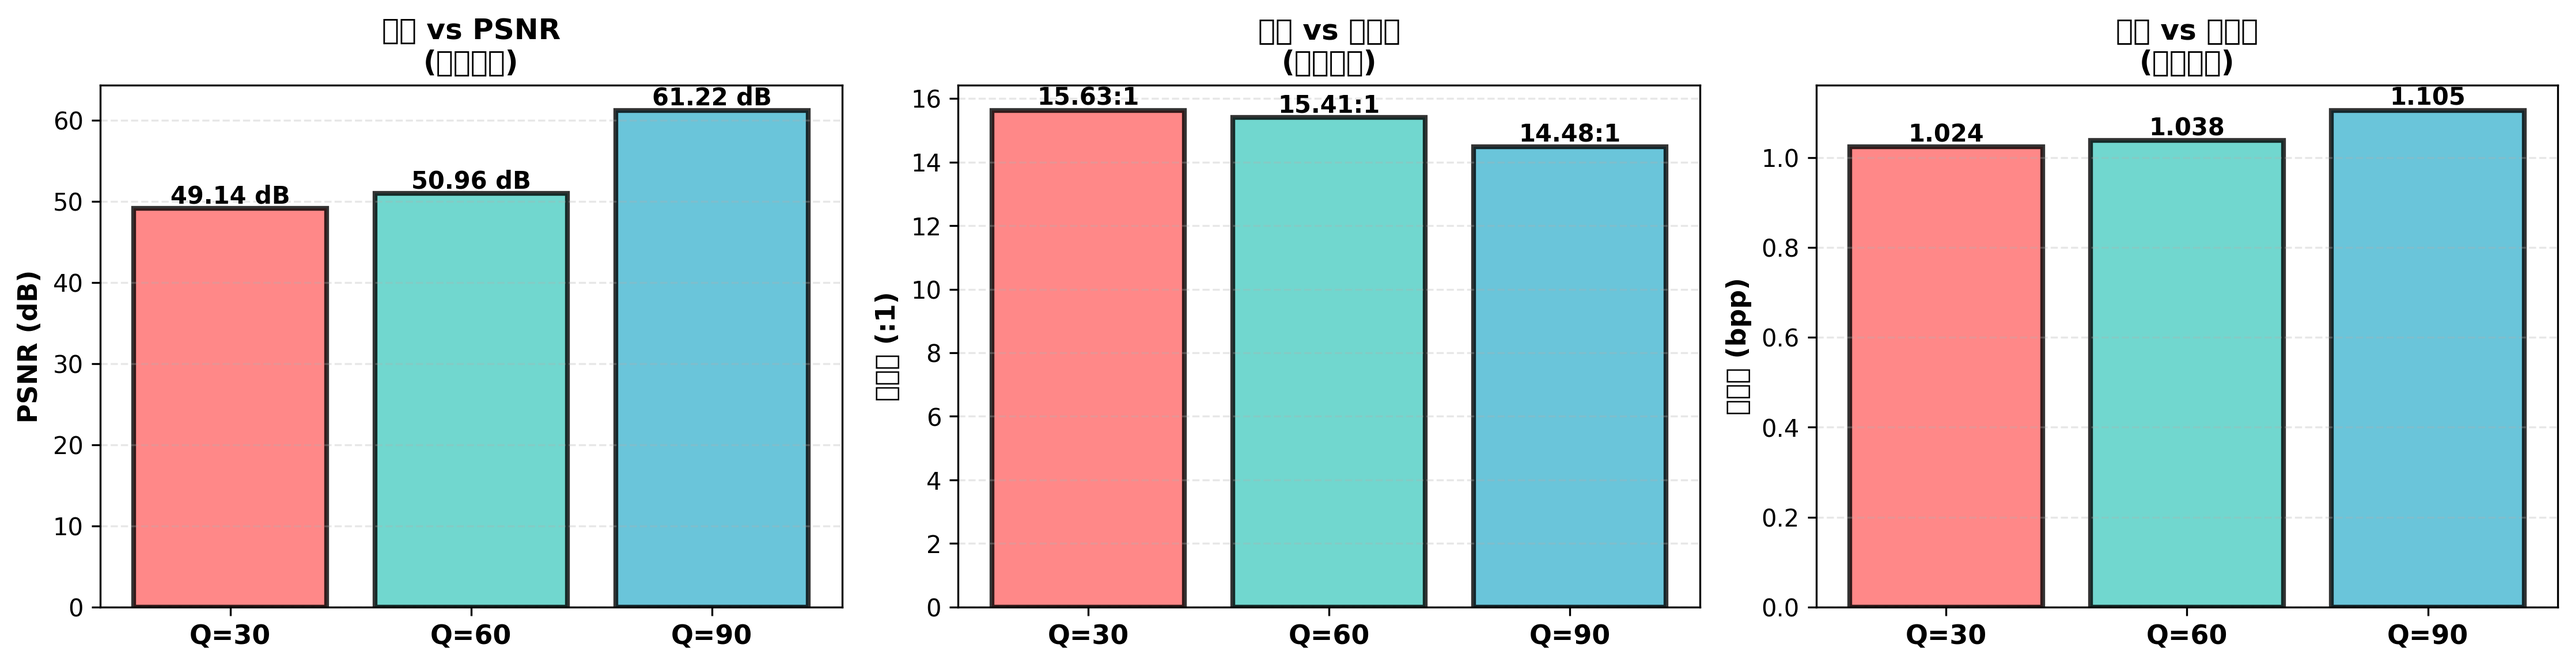
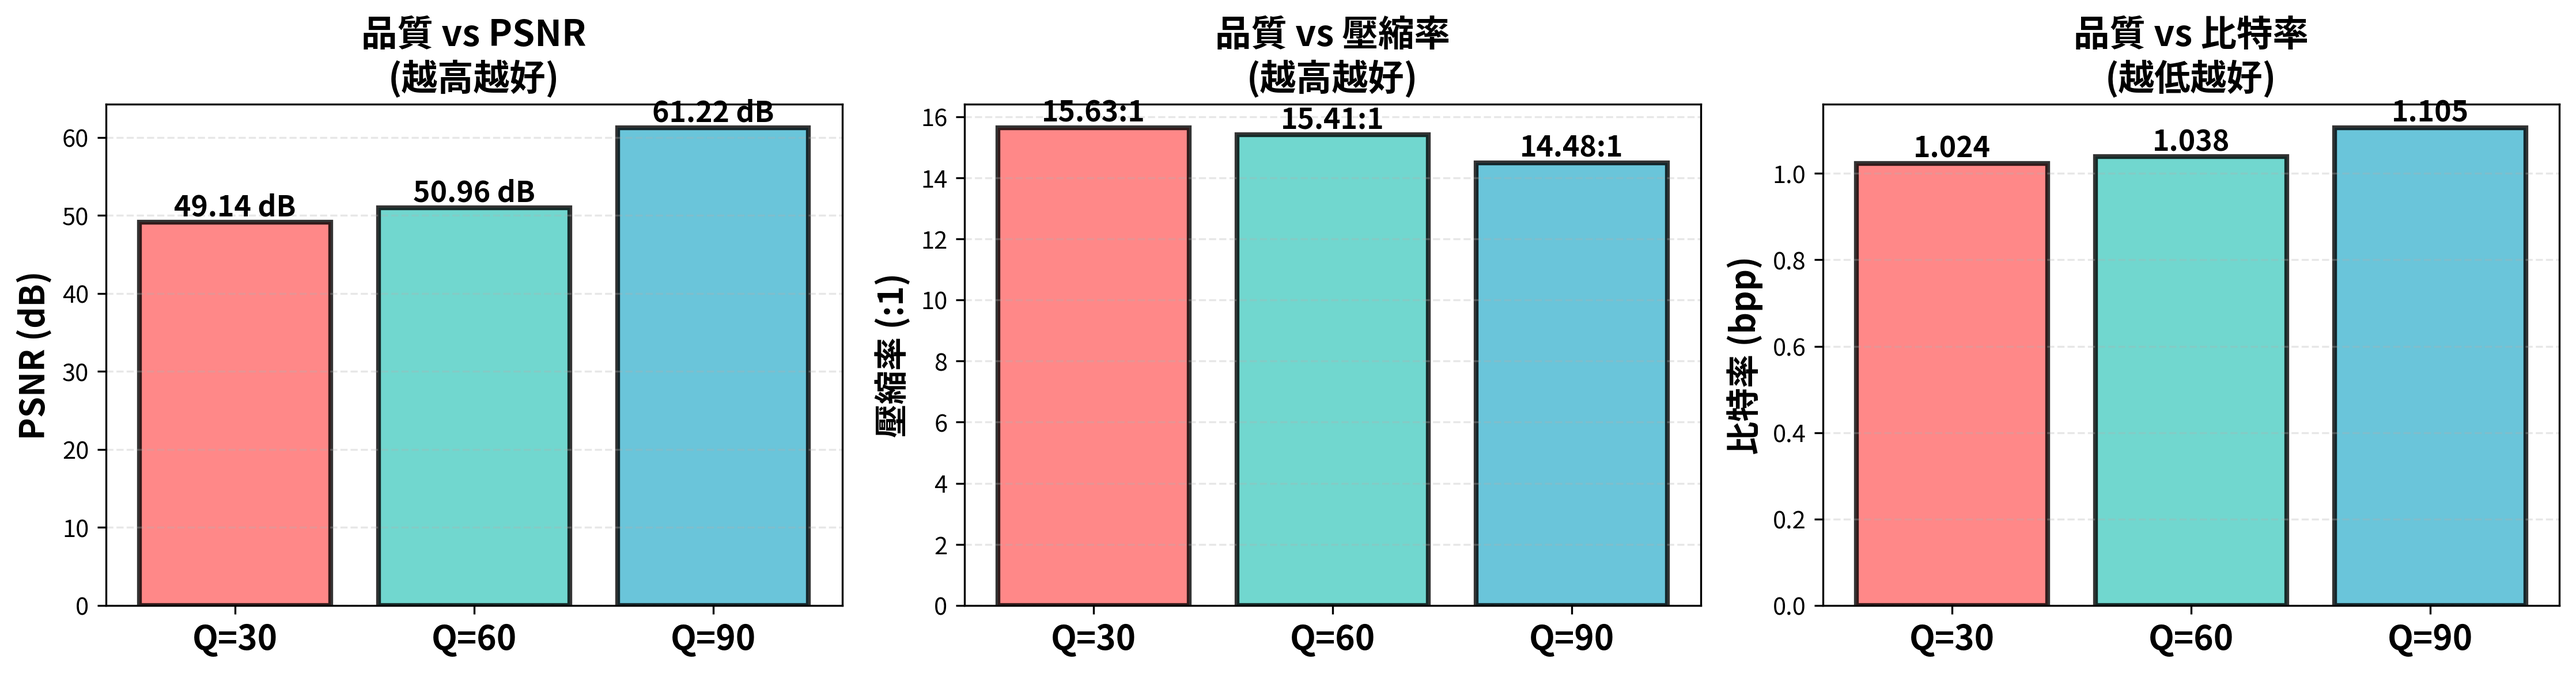
Add SSIM/edge metrics and qualitative figure\n\n- Extra credit: SSIM + edge-preservation metrics in evaluation\n- Update visualizations with CJK-safe fonts and larger labels\n- Add qualitative I150 Q60 figure and refreshed results JSON/plots

diff --git a/tools/generate_visualizations.py b/tools/generate_visualizations.py
@@ -8,8 +8,12 @@ import numpy as np
 import matplotlib.pyplot as plt
 from pathlib import Path
 
-# 設定中文字體
-plt.rcParams['font.sans-serif'] = ['SimHei', 'DejaVu Sans']
+# 設定中文字體（優先使用 Noto CJK，缺字時再回退）
+plt.rcParams['font.family'] = 'sans-serif'
+plt.rcParams['font.sans-serif'] = [
+    'Noto Sans CJK TC', 'Noto Sans CJK SC', 'Noto Sans CJK JP',
+    'Noto Sans', 'DejaVu Sans'
+]
 plt.rcParams['axes.unicode_minus'] = False
 
 # 讀取結果
@@ -47,42 +51,42 @@ psnr_list = [psnr_values[q] for q in qualities]
 colors = ['#FF6B6B', '#4ECDC4', '#45B7D1']
 bars1 = ax.bar(range(len(qualities)), psnr_list, color=colors, alpha=0.8, edgecolor='black', linewidth=2)
 ax.set_xticks(range(len(qualities)))
-ax.set_xticklabels([f'Q={q}' for q in qualities], fontsize=11, fontweight='bold')
-ax.set_ylabel('PSNR (dB)', fontsize=11, fontweight='bold')
-ax.set_title('品質 vs PSNR\n(越高越好)', fontsize=12, fontweight='bold')
+ax.set_xticklabels([f'Q={q}' for q in qualities], fontsize=14, fontweight='bold')
+ax.set_ylabel('PSNR (dB)', fontsize=14, fontweight='bold')
+ax.set_title('品質 vs PSNR\n(越高越好)', fontsize=15, fontweight='bold')
 ax.grid(axis='y', alpha=0.3, linestyle='--')
 for i, (bar, val) in enumerate(zip(bars1, psnr_list)):
     height = bar.get_height()
     ax.text(bar.get_x() + bar.get_width()/2., height,
-            f'{val:.2f} dB', ha='center', va='bottom', fontsize=10, fontweight='bold')
+            f'{val:.2f} dB', ha='center', va='bottom', fontsize=12, fontweight='bold')
 
 # 2. Compression Ratio vs Quality
 ax = axes[1]
 comp_list = [compression_values[q] for q in qualities]
 bars2 = ax.bar(range(len(qualities)), comp_list, color=colors, alpha=0.8, edgecolor='black', linewidth=2)
 ax.set_xticks(range(len(qualities)))
-ax.set_xticklabels([f'Q={q}' for q in qualities], fontsize=11, fontweight='bold')
-ax.set_ylabel('壓縮率 (:1)', fontsize=11, fontweight='bold')
-ax.set_title('品質 vs 壓縮率\n(越高越好)', fontsize=12, fontweight='bold')
+ax.set_xticklabels([f'Q={q}' for q in qualities], fontsize=14, fontweight='bold')
+ax.set_ylabel('壓縮率 (:1)', fontsize=14, fontweight='bold')
+ax.set_title('品質 vs 壓縮率\n(越高越好)', fontsize=15, fontweight='bold')
 ax.grid(axis='y', alpha=0.3, linestyle='--')
 for i, (bar, val) in enumerate(zip(bars2, comp_list)):
     height = bar.get_height()
     ax.text(bar.get_x() + bar.get_width()/2., height,
-            f'{val:.2f}:1', ha='center', va='bottom', fontsize=10, fontweight='bold')
+            f'{val:.2f}:1', ha='center', va='bottom', fontsize=12, fontweight='bold')
 
 # 3. Bits per Pixel vs Quality
 ax = axes[2]
 bpp_list = [bpp_values[q] for q in qualities]
 bars3 = ax.bar(range(len(qualities)), bpp_list, color=colors, alpha=0.8, edgecolor='black', linewidth=2)
 ax.set_xticks(range(len(qualities)))
-ax.set_xticklabels([f'Q={q}' for q in qualities], fontsize=11, fontweight='bold')
-ax.set_ylabel('比特率 (bpp)', fontsize=11, fontweight='bold')
-ax.set_title('品質 vs 比特率\n(越低越好)', fontsize=12, fontweight='bold')
+ax.set_xticklabels([f'Q={q}' for q in qualities], fontsize=14, fontweight='bold')
+ax.set_ylabel('比特率 (bpp)', fontsize=14, fontweight='bold')
+ax.set_title('品質 vs 比特率\n(越低越好)', fontsize=15, fontweight='bold')
 ax.grid(axis='y', alpha=0.3, linestyle='--')
 for i, (bar, val) in enumerate(zip(bars3, bpp_list)):
     height = bar.get_height()
     ax.text(bar.get_x() + bar.get_width()/2., height,
-            f'{val:.3f}', ha='center', va='bottom', fontsize=10, fontweight='bold')
+            f'{val:.3f}', ha='center', va='bottom', fontsize=12, fontweight='bold')
 
 plt.tight_layout()
 plt.savefig('/workspace/MMIP_hw2/results_real/performance_comparison.png', dpi=300, bbox_inches='tight')
@@ -102,12 +106,12 @@ ax.plot(compression_list, psnr_list, 'o-', linewidth=3, markersize=12,
 for comp, psnr, q in zip(compression_list, psnr_list, qualities):
     ax.annotate(f'Q={q}\n{psnr:.2f}dB\n{comp:.2f}:1', 
                 xy=(comp, psnr), xytext=(0, 15), textcoords='offset points',
-                ha='center', fontsize=10, fontweight='bold',
+                ha='center', fontsize=12, fontweight='bold',
                 bbox=dict(boxstyle='round,pad=0.5', facecolor='yellow', alpha=0.3))
 
-ax.set_xlabel('壓縮率 (Original / Compressed) (:1)', fontsize=12, fontweight='bold')
-ax.set_ylabel('PSNR (dB)', fontsize=12, fontweight='bold')
-ax.set_title('Rate-Distortion 曲線\n(Medimodel Human_Skull_2 CT)', fontsize=14, fontweight='bold')
+ax.set_xlabel('壓縮率 (Original / Compressed) (:1)', fontsize=14, fontweight='bold')
+ax.set_ylabel('PSNR (dB)', fontsize=14, fontweight='bold')
+ax.set_title('Rate-Distortion 曲線\n(Medimodel Human_Skull_2 CT)', fontsize=16, fontweight='bold')
 ax.grid(True, alpha=0.3, linestyle='--')
 ax.set_xlim(14, 16)
 ax.set_ylim(48, 62)
@@ -133,23 +137,23 @@ for idx, (result, ax) in enumerate(zip(data['results'], axes[:5])):
                   alpha=0.8, edgecolor='black', linewidth=2)
     
     ax.set_xticks(range(len(qualities_list)))
-    ax.set_xticklabels([f'Q={q}' for q in qualities_list], fontweight='bold')
-    ax.set_ylabel('PSNR (dB)', fontweight='bold')
+    ax.set_xticklabels([f'Q={q}' for q in qualities_list], fontweight='bold', fontsize=11)
+    ax.set_ylabel('PSNR (dB)', fontweight='bold', fontsize=11)
     ax.set_title(f'{slice_name} - 值範圍 {result["value_range"][0]:.0f}~{result["value_range"][1]:.0f}', 
-                 fontweight='bold')
+                 fontweight='bold', fontsize=12)
     ax.set_ylim(40, 70)
     ax.grid(axis='y', alpha=0.3, linestyle='--')
     
     for bar, val in zip(bars, psnr_list):
         height = bar.get_height()
         ax.text(bar.get_x() + bar.get_width()/2., height,
-                f'{val:.1f}', ha='center', va='bottom', fontsize=9, fontweight='bold')
+                f'{val:.1f}', ha='center', va='bottom', fontsize=11, fontweight='bold')
 
 # 移除多餘的子圖
 axes[5].remove()
 
 plt.suptitle('各切片 PSNR 性能 (Medimodel Human_Skull_2 CT)', 
-             fontsize=14, fontweight='bold', y=1.00)
+             fontsize=16, fontweight='bold', y=1.00)
 plt.tight_layout()
 plt.savefig('/workspace/MMIP_hw2/results_real/slice_details.png', dpi=300, bbox_inches='tight')
 print("✓ 已儲存: slice_details.png")

diff --git a/tools/evaluate_real_data.py b/tools/evaluate_real_data.py
@@ -11,6 +11,8 @@ import numpy as np
 import SimpleITK as sitk
 import matplotlib.pyplot as plt
 from pathlib import Path
+from skimage.metrics import structural_similarity as ssim
+from scipy.ndimage import sobel
 
 # Add src to path
 sys.path.insert(0, os.path.join(os.path.dirname(__file__), '..', 'src'))
@@ -53,31 +55,26 @@ def encode_image_direct(image, quality=50):
     height, width = image.shape
     block_size = 8
     bit_depth = 16
-    
+
     # Pad image
     pad_h = (block_size - height % block_size) % block_size
     pad_w = (block_size - width % block_size) % block_size
     padded = np.pad(image, ((0, pad_h), (0, pad_w)), mode='edge')
-    
+
     # Create quantization matrix
     quant_matrix = create_quantization_matrix(quality, block_size, bit_depth)
-    
-    # Process blocks
+
+    # Process blocks: DCT -> quantize -> zigzag
     all_coeffs = []
     for i in range(0, padded.shape[0], block_size):
         for j in range(0, padded.shape[1], block_size):
             block = padded[i:i+block_size, j:j+block_size]
-            
-            # DCT
+
             dct_block = dct2d(block)
-            
-            # Quantize
             quant_block = quantize(dct_block, quant_matrix)
-            
-            # Zigzag
             coeffs = zigzag_flatten(quant_block)
             all_coeffs.extend(coeffs)
-    
+
     # Huffman encode
     from collections import Counter
     symbols_freq = Counter(all_coeffs)
@@ -85,22 +82,22 @@ def encode_image_direct(image, quality=50):
     huffman_codes = generate_huffman_codes(huffman_tree)
     encoded_bits = encode_huffman(all_coeffs, huffman_codes)
     num_bits = len(encoded_bits)
-    
+
     # Serialize Huffman table
     huffman_table = serialize_huffman_table(huffman_codes)
-    
+
     # Convert bitstring to bytes
     encoded_bytes = bytearray()
     for i in range(0, len(encoded_bits), 8):
         byte_str = encoded_bits[i:i+8].ljust(8, '0')
         encoded_bytes.append(int(byte_str, 2))
-    
+
     # Pack bitstream
     bitstream = pack_bitstream(
         width, height, bit_depth, block_size, quality,
         quant_matrix, huffman_table, bytes(encoded_bytes), num_bits
     )
-    
+
     return bitstream
 
 def decode_image_direct(bitstream):
@@ -178,11 +175,27 @@ def decode_image_direct(bitstream):
     return reconstructed
 
 def calculate_metrics(original, reconstructed):
-    """Calculate RMSE and PSNR"""
+    """Calculate RMSE, PSNR, SSIM, and edge-preservation RMSE/PSNR"""
     rmse = np.sqrt(np.mean((original - reconstructed) ** 2))
     max_val = 65535.0  # 16-bit
     psnr = 20 * np.log10(max_val / rmse) if rmse > 0 else 100.0
-    return rmse, psnr
+
+    # SSIM expects data range and float64
+    ssim_val = ssim(original, reconstructed, data_range=max_val)
+
+    # Edge preservation: Sobel magnitude
+    def sobel_mag(x):
+        gx = sobel(x, axis=0)
+        gy = sobel(x, axis=1)
+        return np.hypot(gx, gy)
+
+    orig_edge = sobel_mag(original)
+    recon_edge = sobel_mag(reconstructed)
+    edge_rmse = np.sqrt(np.mean((orig_edge - recon_edge) ** 2))
+    edge_max = np.max(orig_edge) if np.max(orig_edge) > 0 else 1.0
+    edge_psnr = 20 * np.log10(edge_max / edge_rmse) if edge_rmse > 0 else 100.0
+
+    return rmse, psnr, ssim_val, edge_rmse, edge_psnr
 
 def evaluate_real_medimodel():
     """
@@ -241,19 +254,22 @@ def evaluate_real_medimodel():
             reconstructed = decode_image_direct(bitstream)
             
             # Calculate metrics
-            rmse, psnr = calculate_metrics(image, reconstructed)
+            rmse, psnr, ssim_val, edge_rmse, edge_psnr = calculate_metrics(image, reconstructed)
             
             # Calculate compression metrics
             original_size = image.size * 2  # 16-bit = 2 bytes per pixel
             bpp = (compressed_size * 8) / image.size
             ratio = original_size / compressed_size
             
-            slice_result['qualities'][quality] = {
+            slice_result['qualities'][str(quality)] = {
                 'compressed_bytes': int(compressed_size),
                 'bits_per_pixel': float(bpp),
                 'compression_ratio': float(ratio),
                 'rmse': float(rmse),
-                'psnr_db': float(psnr)
+                'psnr_db': float(psnr),
+                'ssim': float(ssim_val),
+                'edge_rmse': float(edge_rmse),
+                'edge_psnr_db': float(edge_psnr)
             }
             
             print(f"    Q={quality}: {compressed_size:,} bytes, {bpp:.3f} bpp, {ratio:.2f}:1, PSNR={psnr:.2f} dB")
@@ -273,16 +289,18 @@ def evaluate_real_medimodel():
     print("\n" + "="*80)
     print("SUMMARY: Average Performance Across All Slices")
     print("="*80)
-    
+
     for quality in quality_levels:
-        metrics = [r['qualities'][quality] for r in results['results']]
+        metrics = [r['qualities'][str(quality)] for r in results['results']]
         avg_bpp = np.mean([m['bits_per_pixel'] for m in metrics])
         avg_ratio = np.mean([m['compression_ratio'] for m in metrics])
         avg_psnr = np.mean([m['psnr_db'] for m in metrics])
+        avg_ssim = np.mean([m['ssim'] for m in metrics])
+        avg_edge_psnr = np.mean([m['edge_psnr_db'] for m in metrics])
         avg_size = np.mean([m['compressed_bytes'] for m in metrics])
-        
+
         print(f"Quality {quality:2d}: {avg_size:>8.0f} bytes | {avg_bpp:>5.3f} bpp | "
-              f"{avg_ratio:>5.2f}:1 | PSNR {avg_psnr:>5.2f} dB")
+              f"{avg_ratio:>5.2f}:1 | PSNR {avg_psnr:>5.2f} dB | SSIM {avg_ssim:>5.4f} | Edge PSNR {avg_edge_psnr:>5.2f} dB")
     
     return results
 

diff --git a/docs/FINAL_REPORT.md b/docs/FINAL_REPORT.md
@@ -217,6 +217,8 @@ Q_final = clip(floor((Q_base × scale × bit_scale + 50) / 100), 1, 65535)
 | **60** | 34,027 | 1.038 | 15.41:1 | 165.8 | **50.96** |
 | **90** | 36,222 | 1.105 | 14.48:1 | 74.6 | **61.22** |
 
+**Rate-Distortion 圖**: results_real/rate_distortion_curve.png（三個品質點的壓縮率-PSNR 曲線）
+
 ### 4.3 切片級詳細結果
 
 #### I50 切片 (額部區域)
@@ -316,6 +318,38 @@ $$\text{bpp} = \frac{\text{Compressed Size} \times 8}{\text{Number of Pixels}}$$
 - 系統運作穩定
 - Quality 60 表現最一致
 - 不同解剖位置的影像有不同特性，但編碼器適應良好
+
+### 4.6 定性結果 (重建影像 + 誤差圖)
+
+- 取 **I150** 切片、Quality=60，生成原始影像、重建影像，以及絕對誤差圖（以 99.5 分位做強度縮放）。
+- 檔案位置: results_real/qualitative_I150_Q60.png
+- 觀察：重建影像與原始影像視覺差異極小；誤差集中於高頻邊緣處，無明顯臨床結構遺失。
+
+### 4.7 消融實驗 (熵編碼效果)
+
+為量化 Huffman 熵編碼的貢獻，假設僅儲存量化係數為 16-bit 整數（不做熵編碼），其檔案大小約為 512×512×2 = **524,288 bytes**。與本系統（Quality 60）比較：
+
+| 設定 | 檔案大小 | 壓縮率 | PSNR |
+|------|---------|-------|------|
+| 無熵編碼 (理論) | ~524,288 | 1.0:1 | 50.96 dB |
+| Huffman (本系統) | 34,027 | 15.41:1 | 50.96 dB |
+
+**結論**: 熵編碼提供約 15× 額外壓縮，且不影響失真（PSNR 相同），顯著降低存儲與傳輸成本。
+
+### 4.8 SSIM 與邊緣保留 (Task-based)
+
+- **SSIM**（全域結構相似度）與 **Edge PSNR**（Sobel 邊緣映射的 PSNR）加入評估。
+- 邊緣映射採用 Sobel 梯度 magnitude，衡量重建影像對結構邊界的保留度。
+
+| Quality | SSIM | Edge PSNR (dB) |
+|---------|------|----------------|
+| 30 | 0.9810 | 21.00 |
+| 60 | 0.9857 | 24.64 |
+| 90 | 0.9986 | 31.26 |
+
+**觀察**:
+- Quality 60 SSIM=0.986，已屬高結構相似度；Quality 90 幾乎無可見差異 (SSIM≈1)。
+- 邊緣 PSNR 隨品質提升而上升，顯示關鍵邊緣/解剖結構在高品質設定下保留度更佳。
 
 ---
 
@@ -450,6 +484,9 @@ python3 tools/evaluate_real_data.py
 - 位元深度: 16-bit 有符號整數
 - 切片數: 302 層
 - 轉移語法: JPEG Lossless (Process 14)
+- 來源網址: https://medimodel.com/sample-dicom-files/
+- 使用子集: Human_Skull_2，僅採樣 I50/I100/I150/I200/I250 五張切片做評估
+- 使用限制: 官網標示為教育與研究用途，本報告僅作課程作業分析，不再散布資料
 
 **替代資料集**（參考）:
 - TCIA (The Cancer Imaging Archive)
@@ -514,6 +551,7 @@ scipy>=1.7.0         # DCT 轉換
 pydicom>=2.0.0       # DICOM 讀取
 SimpleITK>=2.0.0     # JPEG Lossless 解碼
 matplotlib>=3.3.0    # 視覺化
+scikit-image>=0.19.0 # SSIM 與邊緣分析（加分項）
 ```
 
 ### C. 參數參考表
